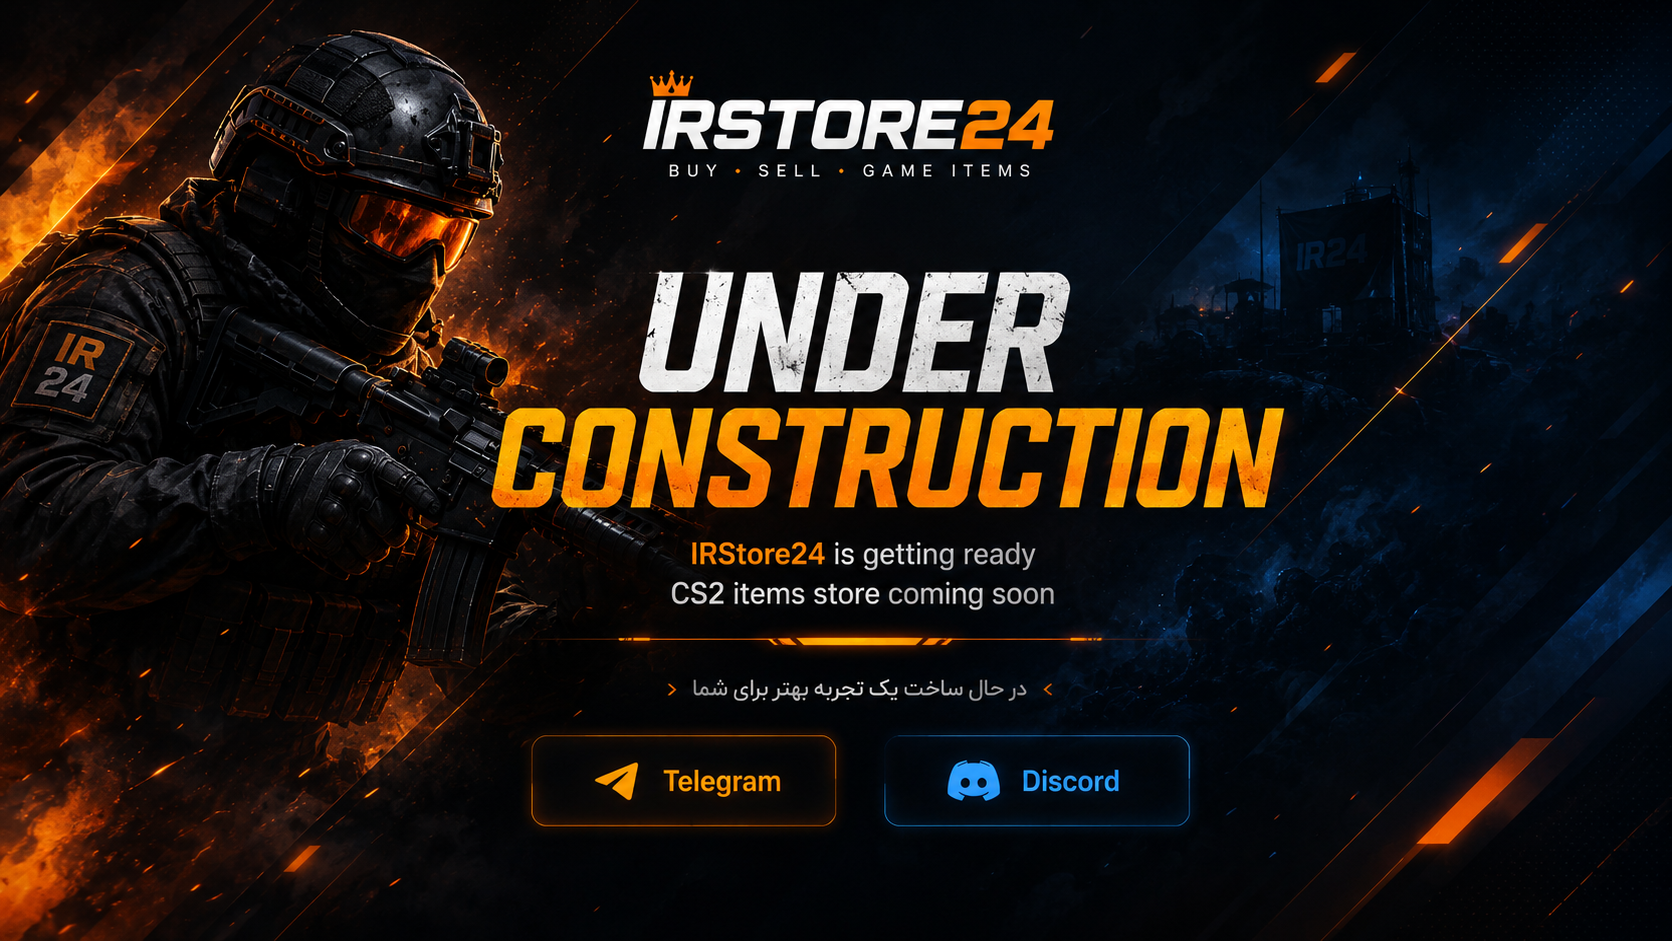
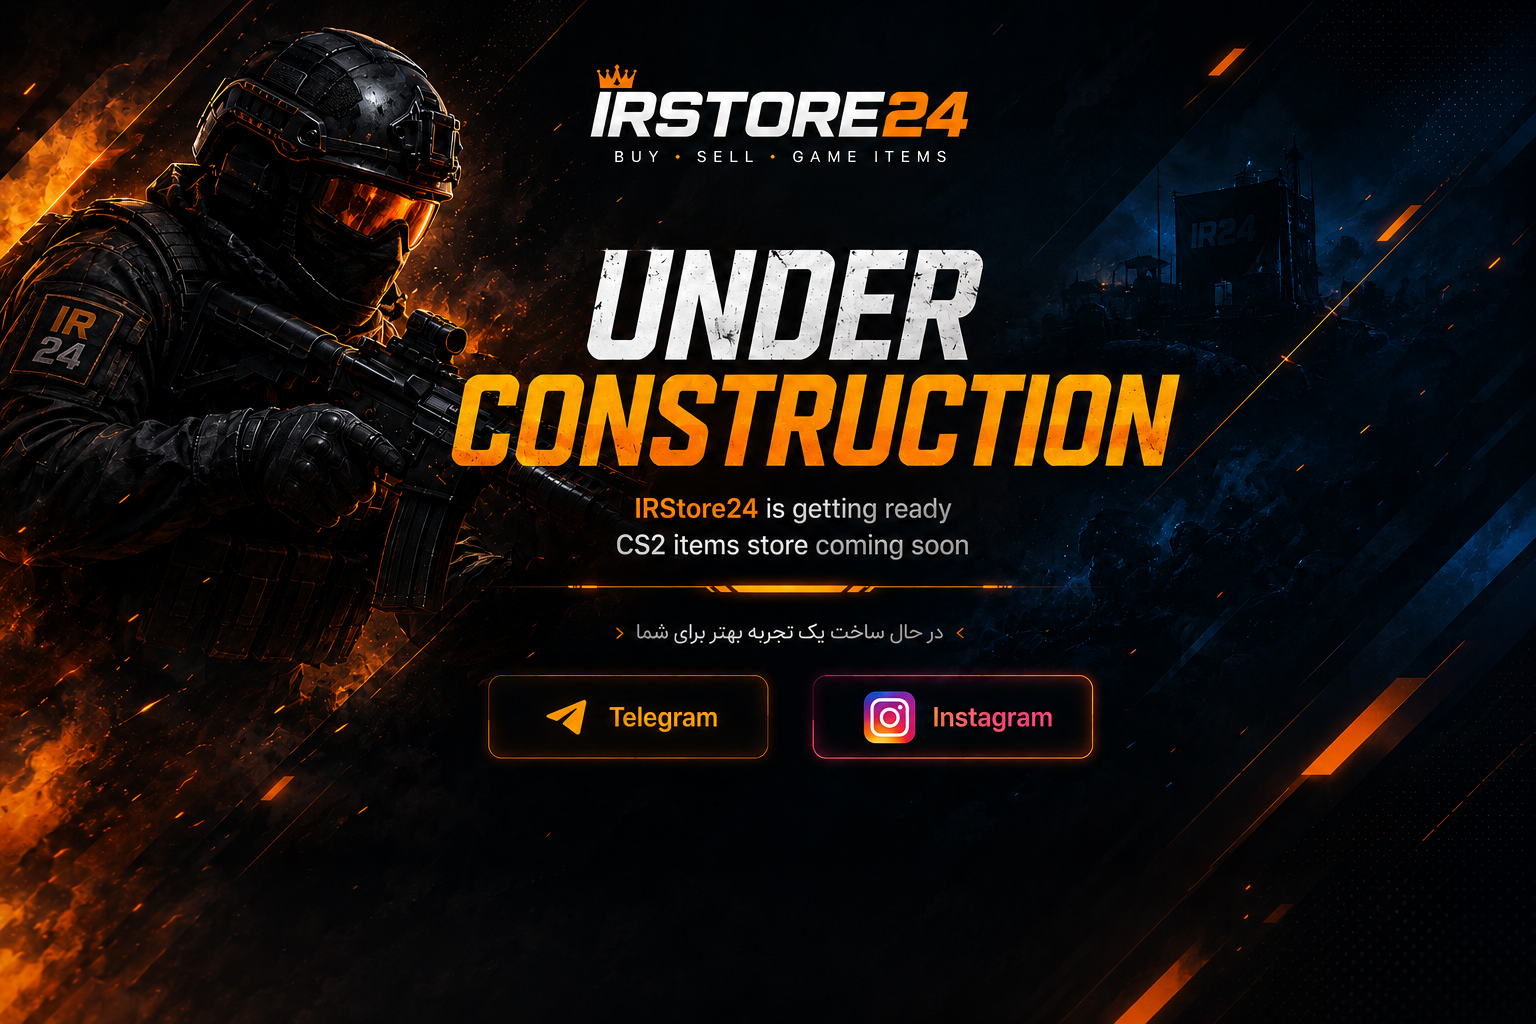
Replace Discord with Instagram

diff --git a/app/page.tsx b/app/page.tsx
@@ -22,11 +22,11 @@ export default function Home() {
         />
 
         <a
-          href="https://discord.gg/YOUR_DISCORD_INVITE"
+          href="https://www.instagram.com/irstore_community?igsh=MTZjYzk2bWFqNTdsbg%3D%3D&utm_source=qr"
           target="_blank"
           rel="noopener noreferrer"
           className="hotspot discord"
-          aria-label="Discord"
+          aria-label="Instagram"
         />
 
       </div>
